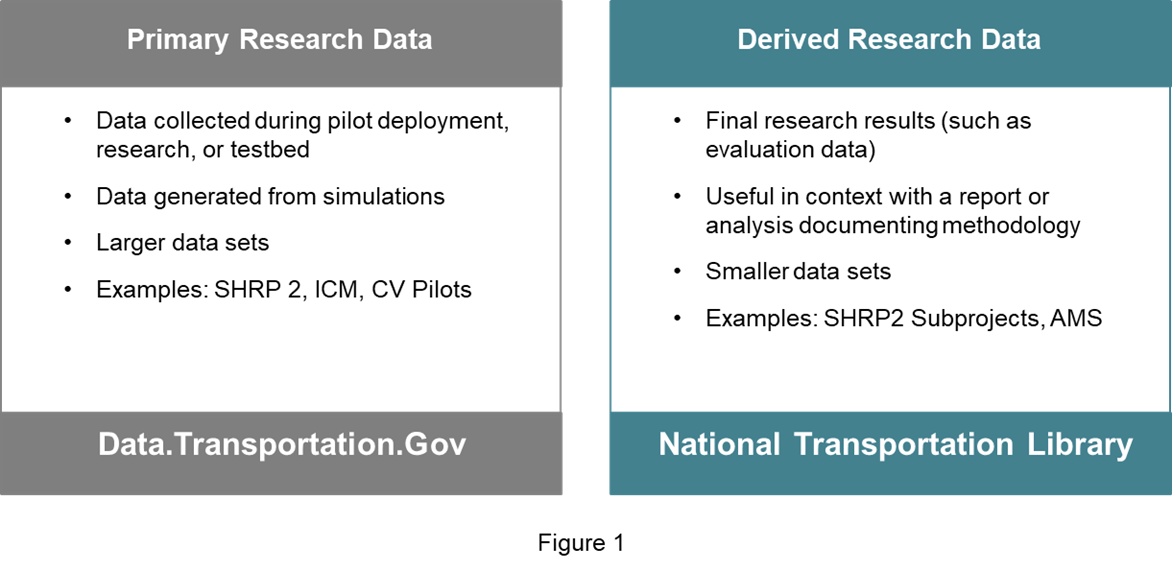
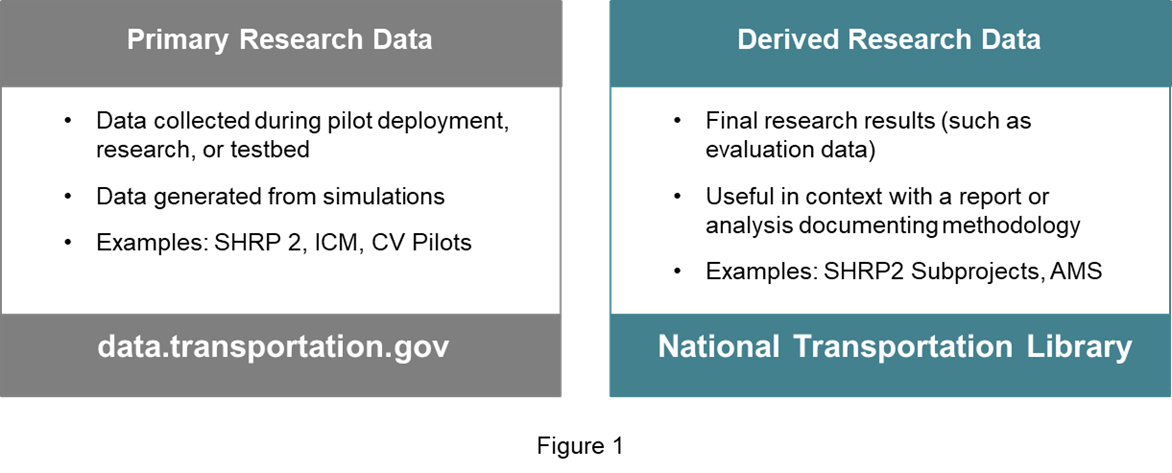
Updated Public Access Page
Incorporated new text

diff --git a/public-access/index.html b/public-access/index.html
@@ -48,52 +48,65 @@
             </ul><br>
             <h2 id="ITS_JPO_data">ITS JPO data access policies</h2>
             <h3 id="Applicability">Applicability</h3>
-            <p>The question of whether these ITS JPO data access policies apply, i.e., whether data generated by a specific project or system must be made accessible, and how, is determined by the ITS JPO and the relevant project team. This determination is typically made during procurement or development of whatever contract or other agreement pertains to the project or system that generates the data.</p>
-            <p>The policies and procedures presented here apply to data that is &ldquo;ITS JPO mission-related.&rdquo; This includes data generated from most ITS JPO-funded projects. To manage costs and keep focused on advancing the ITS JPO multimodal mission, bounds have been set on the research data that the ITS JPO governs, stores, and promotes. Those bounds are based on the ITS JPO&rsquo;s multimodal mission to accelerate the research, development, and deployment of life saving and mobility enhancing technologies.</p>
+            <p>The question of whether these ITS JPO data access policies apply, i.e., whether data generated by a specific project or system must be made accessible, and how, is determined by the ITS JPO and the relevant project team. This determination is typically made during procurement or development of the contract or other agreement that pertains to the project or system that generates the data.</p>
+            <p>The policies and procedures presented here apply to data that is "ITS JPO mission-related." This includes data generated from most ITS JPO-funded projects. To manage costs and keep focused on advancing the ITS JPO multimodal mission, bounds have been set on the research data that the ITS JPO governs, stores, and promotes. Those bounds are based on the ITS JPO&rsquo;s multimodal mission to accelerate the research, development, and deployment of life saving and mobility enhancing technologies.</p>
             <p>ITS JPO recognizes that not all data generated via ITS JPO-funded projects come from ITS technologies and not all data generated from ITS technologies funded outside the ITS JPO help advance the ITS JPO statutory mission. Regardless of USDOT funding source, if a project contributes to the ITS JPO&rsquo;s current strategic goals (see the ITS JPO <a href="https://www.its.dot.gov/research_areas/strategicplan2015.htm">Strategic Plan</a>), the ITS JPO has an obligation or an interest in governing the data it generates and enabling its retention and use.</p><br>
             <h4 id="Determining_which_data">Determining which data is within the ITS JPO&rsquo;s mission to govern</h4>
             <p>A review process that precedes initiation of any JPO-funded project&mdash;a process that includes approval by the ITS JPO Strategic Planning Group (SPG)&mdash;ensures that all ITS JPO-funded projects help advance the ITS JPO&rsquo;s mission. Any data generated via ITS JPO-funded projects are within the ITS JPO&rsquo;s mission to govern. Because these projects are funded by the ITS JPO, ITS JPO enforces certain data governance policies and practices via standard contract, agreement, and grant language; regular oversight; and technical assistance in collaboration with the project managers.</p>
-            <p>Data that help advance the ITS JPO&rsquo;s multimodal mission are generated by many ITS-related projects funded outside the ITS JPO. Broadly, it is within the ITS JPO mission to consider how data is generated and retained within such projects. The information presented here focuses on ITS JPO-funded projects. Updates to this information will address any policies and procedures that may address non-ITS JPO funded projects. This may include support to non-ITS JPO program managers in using their organization&rsquo;s and ITS JPO&rsquo;s data governance policies and practices to plan and execute their project. This could include determination, on a case-by-case basis possible deferral or sharing of data storage costs.</p><br>
+            <p>Data that help advance the ITS JPO&rsquo;s multimodal mission are generated by many ITS-related projects funded outside the ITS JPO. Broadly, it is within the ITS JPO mission to consider how data is generated and retained within such projects. The information presented here focuses on ITS JPO-funded projects. Updates to this information will address any policies and procedures that may address non-ITS JPO funded projects. This may include support to non-ITS JPO program managers in using their organization&rsquo;s and ITS JPO&rsquo;s data governance policies and practices to plan and execute their project. This could include determination, on a case-by-case basis possible deferral or sharing of data storage costs.</p>
+            <p>The determination of whether data from a particular project or system is "ITS JPO mission-related"&mdash;regardless of whether the project/system is funded by the ITS JPO or not&mdash;considers whether application of the ITS JPO data access and retention policies presented here will help advance these ITS JPO data objectives:</p>
+            <ol>
+            <li>Facilitate <strong>early user input</strong> into research efforts led by USDOT; informing multi-phased research projects in real time will improve future deliverables and research goals</li>
+            <li>Enable <strong>third party research</strong> into the effectiveness of these emerging ITS technologies, secondary analysis on primary ITS data collection, and harmonization of data for similar collections across the country</li>
+            <li>Enable preliminary development of <strong>third party applications</strong> using the data generated</li>
+            <li>Provide a <strong>model</strong> for efficient, replicable, and scalable data ingest and sharing architectures that educates the user community and broader transportation system</li>
+            <li>Evaluate the <strong>business case</strong> for investing in long-term operational data feeds and archives for new data sources; when there&rsquo;s value, identify potential system owners to hand off responsibility for hosting and curating the data</li>
+            </ol><br>
             <h3 id="Data_management_plan">Data management plan</h3>
-            <p>As stipulated in contracts and other agreements for projects generating data for submission to the ITS JPO, these projects must develop a Data Management Plan. These stipulations include submission of the DMP soon after project initiation and maintenance of the DMP as a living document over the life of the project. It is the DMP that will document the specific approach to complying with the ITS JPO data governance policies and procedures described here and reflected in the project&rsquo;s contract or other agreement. The DMP describes how data will be managed during and after the project. The project contract or other agreement will, unless otherwise instructed by the ITS JPO, require the project team to follow the DMP guidelines available at: <a href="https://ntl.bts.gov/publicaccess/creatingaDMP_extramural.html">https://ntl.bts.gov/publicaccess/creatingaDMP_extramural.html</a>.</p><br>
+            <p>As stipulated in contracts and other agreements for projects generating data for submission to the ITS JPO, these projects must develop a Data Management Plan. These stipulations include submission of the DMP by each project applicant as part of their proposal or agreement package and maintenance of the DMP as a living document over the life of the project. DMPs can be refined throughout the life of an agreement (post-award) but applicants should be planning for data management as part of their application process.  Typically, revisions to the DMP (and resubmittal as a project deliverable) will include, at the least, revising the DMP following project award and kickoff to reflect discussions between the project team and ITS JPO.</p>
+            <p>The DMP documents the specific approach to complying with the ITS JPO data governance policies and procedures described here and reflected in the project&rsquo;s contract or other agreement. The DMP describes how data will be managed during and after the project. The project contract or other agreement will, unless otherwise instructed by the ITS JPO, require the project team to follow the DMP guidelines available at: <a href="https://ntl.bts.gov/publicaccess/creatingaDMP_extramural.html">https://ntl.bts.gov/publicaccess/creatingaDMP_extramural.html</a>.</p><br>
             <h3 id="Determining_the_appropriate">Determining the appropriate research data system</h3>
-            <p>As part of the decision on whether and which data policies and requirements apply to a specific project or system (typically made before or part of the execution of the contract or other agreement governing the project), the ITS JPO, in consultation with the project team, will have determined which type of research data system should be used for the project-generated data. The information below supports those determinations and describes the type of data and other circumstances appropriate to several alternative research data systems.</p><br>
-            <h4 id="2.3.1__Option_1">Option 1: ITS JPO-approved public data systems</h4>
-            <p>There are two ITS JPO approved approaches for making data publicly accessible. The determination of which of these two systems should be used for a particular project or system is typically made as part of the contracting or other agreement process before or early in the project.</p>
-            <p>These two systems are used to store mature data - i.e., the data structure is settled, quality is high - and within the size limits of these systems (policies and procedures for data that are not suitable for these systems are discussed below). For data stored within these systems, users can leverage functionality to preview, visualize, and download data.&nbsp;</p>
-            <p>Figure 1 summarizes the applicability of the two ITS JPO-approved public data systems to different types of data. Additional information on these two systems and guidance on what types of data are appropriate for each, is provided below the figure.</p><br>
+            <p>Consistent with the DMP guidelines, this section provides JPO-specific guidance to applicants and awardees on archiving and preservation plans that meet JPO requirements.  JPO has developed or approved a number of repositories that meet the requirements set forth in the DMP guidelines and, depending on the access policies being applied to a given research dataset funded by the JPO, applicants and awardees are required to use the options outlined in this section.</p>
+            <p>Regardless of the data system used, metadata must be supplied to facilitate cataloging and search.  ITS JPO disseminates and enforces consistent standards to enable a positive user experience, efficient data access, and interoperability across this federated system of data storage, that is, "options 1-4" discussed below. This includes consistent use of virtual, i.e., cloud-based, storage infrastructure that makes federated data sets indistinguishable from centralized data sets from an end user perspective.</p><br>
+            <h4 id="2.3.1__Option_1">Option 1: ITS JPO-approved public data systems for mature datasets</h4>
+            <p>There are two ITS JPO-approved approaches for making  JPO mission-related, mature datasets (i.e., those for which the data structure is settled and quality is high) publicly accessible. Policies and procedures for data that are not suitable for these systems are discussed below.</p>
+            <p>The determination of which of these two ITS JPO-approved public data access systems should be used for a particular project is typically made as part of the contracting or other agreement process before or early in the project.</p>
+            <p>For data stored within these systems, users can leverage functionality to preview, visualize, and download data.</p>
+            <p>The two data systems discussed in this section apply  to two different types of mature data: "primary" research data and "secondary" (and "derived" or "final") research data. Primary data is the original data collected by the awardee/primary investigator.  It is the original "field collection" and is from the original source (i.e., "firsthand") and is "raw" or unprocessed.  Secondary data are data that were not collected in the research project that are important for conducting an analysis.  For instance, gathering ambient weather observations from sources outside of the project or system that is generating the ITS JPO-related data, as part of an analysis of the ITS JPO-related data.  "Derived" or "final" research data are produced when primary data is reduced or processed for the purposes of a given study.</p>
+            <p>Given the differences between these two types of data (primary vs. secondary and derived or final), the ITS JPO treats them differently in terms of how and where the data are stored, cataloged, and curated. The ITS JPO helps data providers understand which category their data fits into and why. From a user perspective, however, ITS JPO promotes all ITS JPO mission-related data holistically.</p>
+            <p>Figure 1 graphically summarizes the applicability of the two ITS JPO-approved public data access systems for mature datasets.  Additional information is provided below the figure.</p><br>
             <img src="../images/primary-deriveddata.png" alt="Primary research data are collected over the course if a given research project with value to other researchers. Derived research data are final research results useful in a specific context." height="50%" width="50%"><br>
-            <p><strong>data.transpotation.gov</strong>: This ITS JPO-approved public data system should be used for &ldquo;primary&rdquo; or &ldquo;foundational&rdquo; research data. Examples include data collected via the Strategic Highway Research Program 2 (SHRP 2) naturalistic driving studies, the Connected Vehicle (CV) Pilot projects, and the Integrated Corridor Management (ICM) sites. These data are collected over the course of a given research project or pilot deployment project to support one or more research goals. There is often interest from those outside the core project team to access and use these data to pursue other research goals not only at the end of the project but throughout the period of data collection. Given the ITS JPO&rsquo;s mission focus on emerging technologies, timely access to these data is essential to inform near-real-time policy and technical decision-making.</p>
-            <p><strong>National Transportation Library (NTL)</strong>: This public data system should be used for <em>&ldquo;</em>sample&rdquo; or &ldquo;derived&rdquo; data that supports final research results. Examples include data from SHRP 2 subprojects that use subsets of the primary SHRP 2 data to investigate specific research questions and Connected Vehicle Pilot evaluation data that support analysis of specific safety and mobility benefits. These data are most useful in context of the research publication or analysis that produced them. While it can be beneficial to share the in-process data midway through a project (e.g., with direct peers), it is often acceptable to wait to provide the final data along with the published results at the end of the project. This type of data is the primary focus of public access rules described at <a href="https://ntl.bts.gov/publicaccess/"><em>https://ntl.bts.gov/publicaccess/</em></a> and it is unlikely to become massive for a given project given the limitations of individual researchers. The interest in these data, to the extent that they support the published research results, is likely to persist in perpetuity as other researchers seek to replicate the results and build upon them.</p>
-            <p>Given the differences between these two types of data (&ldquo;foundational&rdquo; vs. &ldquo;derived&rdquo;), the ITS JPO treats them differently in terms of how and where the data are stored, cataloged, and curated. The ITS JPO helps data providers understand which category their data fits into and why. From a user perspective, however, ITS JPO promotes all ITS JPO mission-related data holistically.</p>
-            <p>Data that doesn&rsquo;t qualify for storage within these two systems is still be listed in the appropriate catalog, but the catalog entry points to data hosted outside the systems (policies and procedures for data that are not suitable for these systems are discussed below). ITS JPO disseminates and enforces consistent standards to enable a positive user experience, efficient data access, and interoperability across this federated system of data storage, that is, &ldquo;options 1-4&rdquo; discussed below. This includes consistent use of virtual, i.e., cloud-based, storage infrastructure that makes federated data sets indistinguishable from centralized data sets from an end user perspective.</p><br>
+            <p><strong>data.transpotation.gov</strong>: This ITS JPO-approved public data system should be used for primary research data. These data sets tend to be larger by natures than those "derived" data sets described in the NTL section below. Examples of data appropriate to data.transportation.gov include data collected via the Strategic Highway Research Program 2 (SHRP 2) naturalistic driving studies, the Connected Vehicle (CV) Pilot projects, and the Integrated Corridor Management (ICM) sites. Data appropriate to data.transportation.gov  are collected over the course of a given research project or pilot deployment project to support one or more research goals. Data.transportation.gov supports the ongoing release of primary data throughout the lifecycle of the project, as contrasted with the National Transportation Library (see below), which supports the release of secondary, derived or final data at the end of a project. Providing data throughout the project lifecycle supports interest from those outside the core project team to access and use these data to pursue other research goals not only at the end of the project but throughout the period of data collection. Given the ITS JPO&rsquo;s mission focus on emerging technologies, timely access to these data is essential to inform near-real-time policy and technical decision-making.</p>
+            <p><strong>National Transportation Library (NTL)</strong>: This public data system should be used for secondary and derived or final data. The data sets stored on this system tend to be smaller than "primary" data sets due to their support of a final report, rather than an ongoing collection of data generated by a project. Examples of data appropriate to NTL include data from SHRP 2 subprojects that use subsets of the primary SHRP 2 data to investigate specific research questions and Connected Vehicle Pilot evaluation data that support analysis of specific safety and mobility benefits. These data are most useful in context of the research publication or analysis that produced them. While it can be beneficial to share the in-process data midway through a project (e.g., with direct peers), it is often acceptable to wait to provide the final data along with the published results at the end of the project. This type of data is the primary focus of public access rules described at <a href="https://ntl.bts.gov/publicaccess/"><em>https://ntl.bts.gov/publicaccess/</em></a>. The interest in these data, to the extent that they support the published research results, is likely to persist in perpetuity as other researchers seek to replicate the results and build upon them.</p><br>
             <h4 id="2.3.2._Option_2">Option 2: ITS JPO-approved <em>controlled-access</em> data systems</h4>
-            <p>Projects or systems generating data with privacy, security or confidentiality issues is not suitable for sharing, in full, on the ITS JPO-approved public research data systems described above.&nbsp;</p>
+            <p>This option applies to projects or systems generating data with privacy, security or confidentiality issues is not suitable for public sharing, in full, on the ITS JPO-approved public research data systems described above.&nbsp;</p>
             <p>Examples of specific risks to privacy, confidentiality and security that would suggest that an alternative approach is required include:</p>
             <ul>
-            <li>Personally identifiable information (PII)</li>
+            <li>Personally identifiable information (PII) and/or Protected Health Information (PHI)</li>
+            <li>Human subject research (in some instances)</li>
             <li>Financial information</li>
             <li>Passwords or other information that could be used to gain unapproved access to other controlled-access systems</li>
-            <li>Proprietary information</li>
+            <li>Proprietary information, such as trade secrets</li>
             <li>Anything that would cause harm or psychological distress to the public</li>
             </ul>
             <p>Information on PII from the National Transportation Library available here is useful in understanding the types of data that should reside in a controlled-access system: <a href="https://ntl.bts.gov/publicaccess/creatingaDMP_extramural.html">https://ntl.bts.gov/publicaccess/creatingaDMP_extramural.html</a>).</p>
             <p>Projects or systems generating data that is not suitable for submittal to ITS JPO public research data systems must:</p>
-            <ul>
-            <li>provide the sensitive data to authorized users, including but not limited to independent evaluators, via a <u>controlled-access</u> research data system approved by the ITS JPO; <u>and</u></li>
-            <li>provide a sanitized or aggregated subset of the data to one of the ITS JPO-approved public systems (see sections 2.3.1, 2.3.2 and 2.3.4).</li>
-            </ul>
+            <ol>
+            <li>Provide the sensitive data to authorized users, including but not limited to independent evaluators, via a <u>controlled-access</u> research data system approved by the ITS JPO and any Institutional Review Board controlling data access; <u>and</u></li>
+            <li>Provide a sanitized or aggregated subset of the data to one of the ITS JPO-approved public systems (see sections 2.3.1, 2.3.2 and 2.3.4).</li>
+            </ol>
             <p>ITS JPO and its partners currently operate or are developing several controlled-access research data systems capable of providing varying access rights for approved users to secured, cloud-based data systems and analysis tools. These include systems providing access to:</p>
             <ul>
             <li>federal data sets across USDOT modal administrations;</li>
             <li>federal and local data of interest to specific user communities; and</li>
             <li>data supporting evaluations of federally-sponsored local deployments.</li>
             </ul>
-            <p>ITS JPO, the project team associated with the data-generating project or system, and any other partners associated with the candidate data repositories, coordinate to determine which specific controlled-access system(s) is appropriate and to make other determinations regarding data and approved uses and users.</p><br>
+            <p>ITS JPO, the project team associated with the data-generating project or system, and any other partners associated with the candidate data repositories, coordinate to determine which specific controlled-access system(s) is appropriate, given the type of data and users. The DMP included in the proposal or agreement package submitted by applicants will identify whether and why use of a controlled-access system is proposed, based on the guidelines provided here. The final determination of which, if any, of the ITS JPO-approved controlled access systems will be used, or whether some other system proposed by the applicant (see Option 3, below) will be used, will be made in consultation with the ITS JPO and documented in a revised (post-award) DMP.</p><br>
             <h4 id="2.3.3_Option_3">Option 3: Data generator-proposed alternative public or controlled-access systems</h4>
-            <p>Project teams required to submit data may, as an alternative to options 1 or 2 above (ITS JPO and partners&rsquo; research data systems), instead propose to provide access to data via a public or controlled-access research data access system not previously approved by the ITS JPO, if they can demonstrate that the system meets U.S. DOT and ITS JPO requirements. Those requirements will be outlined in the future and will enable a positive user experience, efficient data access, and interoperability across this federated system of data storage. This includes consistent use of virtual (i.e., cloud-based) storage infrastructure that makes federated data sets indistinguishable from centralized data sets from an end user perspective. Any immediate questions can be directed to: <a href="mailto:data.itsjpo@dot.gov">data.itsjpo@dot.gov</a>.</p><br>
+            <p>Project teams required to submit data may instead, as an alternative to options 1 or 2 above (ITS JPO and partners&rsquo; research data systems), propose to provide access to data via a public or controlled-access research data access system not previously approved by the ITS JPO, if they can demonstrate that the system meets U.S. DOT and ITS JPO requirements. Those requirements will be outlined in the future and will enable a positive user experience, efficient data access, and interoperability across this federated system of data storage. This includes consistent use of virtual (i.e., cloud-based) storage infrastructure that makes federated data sets indistinguishable from centralized data sets from an end user perspective. Any immediate questions can be directed to: <a href="mailto:data.itsjpo@dot.gov">data.itsjpo@dot.gov</a>.</p><br>
             <h4 id="2.3.4__Option_4">Option 4: ITS JPO Research Data Sandbox</h4>
-            <p>The ITS JPO directly manages a subset of the data that do not qualify for storage on data.transportation.gov or NTL. These data are managed within the ITS Research Data Sandbox. The Sandbox is a collection of cloud resources to ingest, transform, and store ITS research data that is not yet mature, e.g., the data structure has not yet been harmonized, or the quality is low and requires development of new extract, transform and load (ETL) processes. Unlike some of the other systems that provide access to more mature data types, the Sandbox requires users to work directly with cloud resources with little front-end functionality.</p>
+            <p>The ITS JPO directly manages immature data, that is not production-level and has not finalized its format or structure, in the ITS Research Data Sandbox. This also includes datasets that are not compatible with USDOT data storage systems listed above (data.transportation.gov or NTL) due to their extreme size, non-standard format or other reasons that may make them non-compatible with those systems. For these datasets data providers will need to work with the ITS JPO to determine the best way to incorporate this data.</p>
+            <p>The Sandbox is a collection of cloud resources to ingest, transform, and store ITS research data that is not yet mature, e.g., the data structure has not yet been harmonized, or the quality is low and requires development of new extract, transform and load (ETL) processes. Unlike some of the other systems that provide access to more mature data types, the Sandbox requires users to work directly with cloud resources with little front-end functionality.</p>
             <p>The Sandbox allows the ITS JPO and its collaborators to iteratively experiment with data structures and processes and rapidly move new data sources from low to high maturity. While metadata standards and data catalogs are well-established, standards for data schema (how data is structured), data elements (specific content), file formats, and methods of access (e.g., push vs. pull, file downloads vs. API access) are not well established within many areas of transportation research. Examples include connected vehicle data, data on work zones, and some types of road weather data. In these cases, in the absence of established standards, decisions for a given data set are based on user input, <em>de facto</em> standards, and best practices from other sectors. The ITS JPO directly engages users, identifies <em>de facto</em> standards, and adopts best practices for the data that ITS JPO curates centrally (including a preference for non-proprietary formats) and helps third party data providers do the same. Helping others to harmonize their data has the added benefit of driving interoperability and re-use.</p>
             <p>Once data within the Sandbox has achieved a high state of maturity, it is moved to the appropriate system for providing access to mature data types, such as data.transportation.gov (in some cases ingest processes may continue to be run in the Sandbox).</p><br>
             <h3 id="Procedures_for_providing">Procedures for providing data access (data submission)</h3>
@@ -118,7 +131,7 @@
             <p><strong>Q - Are ITS JPO personnel available to talk to my project team to explain these policies?</strong></p>
             <p>A - Yes, submit your request to meet, along with any additional questions you have, to <a href="mailto:data.itsjpo@dot.gov">data.itsjpo@dot.gov</a>. You will be connected with someone who can explain the systems and procedures.</p><br>
             <p><strong>Q - I&rsquo;m looking for information on the Research Data Exchange. Where can I find it?</strong></p>
-            <p>A - All data formerly on the Research Data Exchange can be found via its.dot.gov/data.</p><br>
+            <p>A - All data formerly on the Research Data Exchange can be found via <a href="its.dot.gov/data">its.dot.gov/data</a>.</p><br>
             <h2 id="Resources">Resources</h2>
             <p><a href="/documents/Data Provider Prelim Questionnaire.pdf">Data Provider Preliminary Questionnaire</a></p>
             <p><a href="/documents/DTG Data Provider Guide.pdf">Data.transportation.gov Data Provider Guide</a></p>     

diff --git a/css/usdot_data_public_access_template.css b/css/usdot_data_public_access_template.css
@@ -125,6 +125,12 @@ p.headingFont{
 .publicAccess ul {
   margin-left: 4em;
   list-style: disc outside;
+  padding-bottom: 8px;
+}
+
+.publicAccess ol {
+  margin-left: 4em;
+  padding-bottom: 8px;
 }
 
 .publicAccess p {
